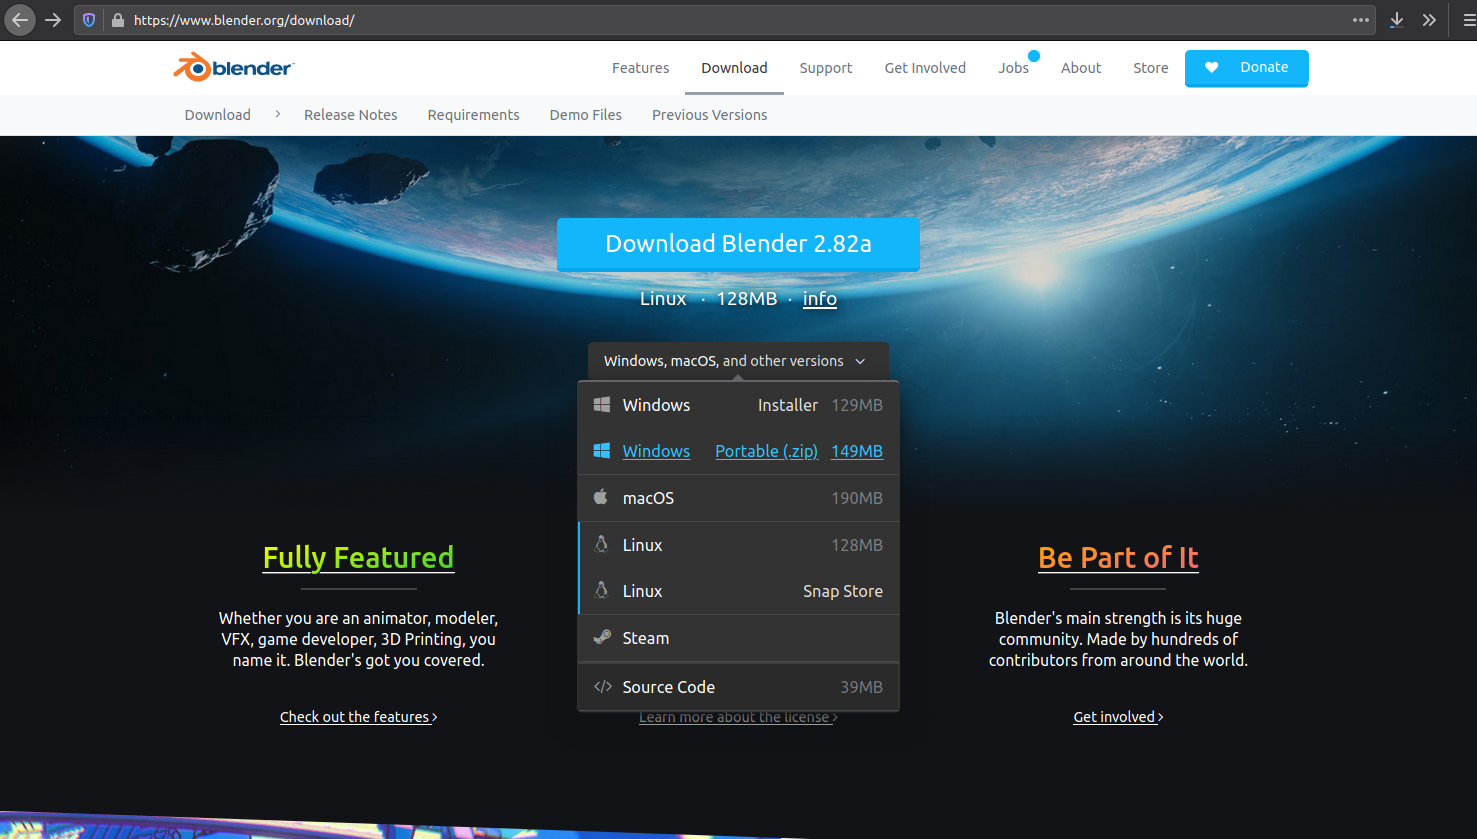
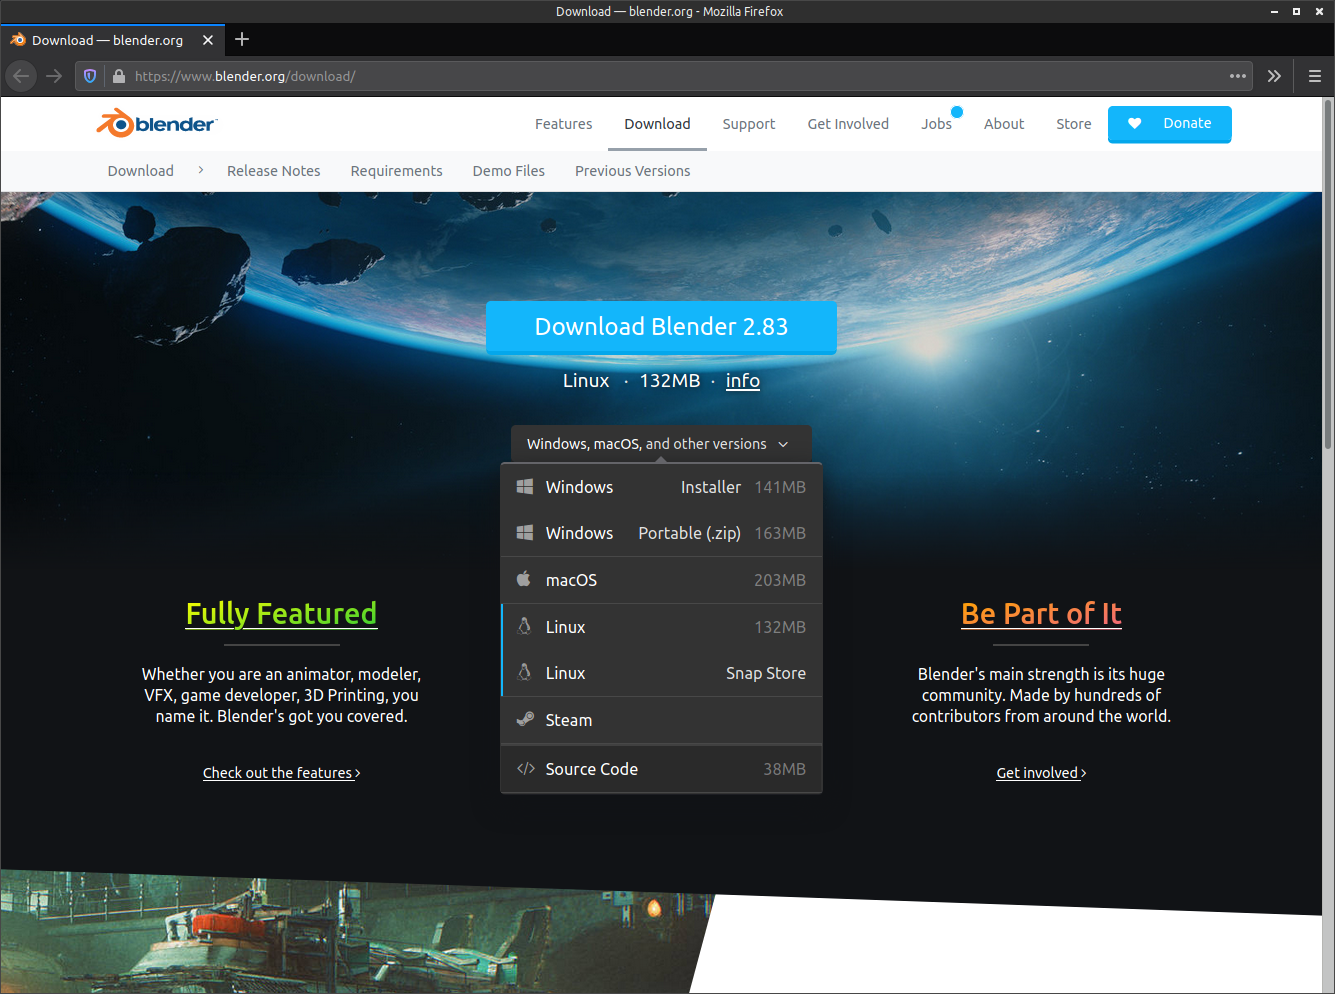
- wip

diff --git a/_posts/2020-06-06-blender_creative_coding--1.1-_getting_started.md b/_posts/2020-06-06-blender_creative_coding--1.1-_getting_started.md
@@ -12,33 +12,48 @@ published: false
 </p>
 -->
 
-This series of tutorial posts introduce Blender as tool for creative coding. [Blender](https://www.blender.org/) is open-source software for 3D modelling and animation, that can also handle compositing, video editing, and 2D animation.
+In this series of tutorials, I'll introduce Blender as a tool for creative coding. [Blender](https://www.blender.org/) is open-source software for 3D modelling and animation that can also handle compositing, video editing, and 2D animation. Artists and animators operate Blender using a graphic user interface (Figure 1-1), but it also features a Python API that can do everything the GUI can and more. That means you can use Python code draw, position, animate, and manipulate 3D objects.
 
-But, Blender also features a Python API that you can use
+<figure>
+  <img src="{{ site.url }}/img/bcc01/getting-started-blender.png" class="fullwidth" />
+  <figcaption>Figure 1-1: The Blender modelling interface</figcaption>
+</figure>
 
-[Complete list of Processing.py lessons]({{ site.baseurl }}/#processing-reverse)
+I began experimenting with Blender scripting largely via *Processing Python Mode*. I'm interested in creative coding using Python. Processing Python Mode is a fantastic entry point into the world of creative coding, Python, and programming in general. I think it's so great that I wrote a [whole course]({{ site.baseurl }}/#processing-reverse) on it. You won't outgrow Processing, but you might have the urge to delve into some more advanced 3D stuff---particle systems, rigid-body/fluid/cloth dynamics, metaballs, volumetrics, and so forth. With Blender scripting, you get access to all of that and a powerful render engine to output your creations in high-resolution image and video formats.
+
+I'll be adding lessons whenever I have time. This series of tutorials is serves as a journal for myself, and a guide for others. I've always longed to get 'properly' into Blender, and now I've found a reason to do so.
+
+### What You Should Know Already
+
+I'll provide a brief overview of the Python language in lesson 2. If you're familiar with some other programming language, you should be fine. If you have no programming experience, it's best to learn some Python first (using [Processing Python mode]({{ site.baseurl }}/#processing-reverse) or some other Python environment).
+
+Some Blender knowledge is useful, but not essential.
 
 # Getting Started
 
-In this section, I'll step you through installing Blender, accessing the scripting interface, and running your first line of code. You should already possess some Python knowledge; but if you're familiar with some other programming language, you can fill in on Python as you progress through the content. Some Blender knowledge is useful, but not essential.
+In this section, I'll step you through installing Blender, accessing the scripting interface, and running your first line of code. At the time of writing, Blender is on release 2.83.
 
-You can download Blender from the Blender website: [https://www.blender.org/download/](https://www.blender.org/download/)
+Download Blender from the Blender website at [https://www.blender.org/download/](https://www.blender.org/download/).
 
-On the Download page, click the *other versions* option. I'm using the *Portable* version. I prefer not to use installers if I can; this way, you know exactly where the Blender application is stored, which is useful for the command line step (coming up shortly). For Windows, download the *Portable(.zip)* file. For Linux, download the non-Snap-Store version (with the file size alongside it). For macOS, there's just one option, which is the one you want.
+On the Download page, click the *other versions* option (Figure 1-2). I'm using the *Portable* version. I prefer not to use installers if I can; this way, you know exactly where the Blender application is stored, which is useful for the command line step (coming up shortly). For Windows, download the *Portable(.zip)* file. For Linux, download the *non*-Snap-Store version. For macOS, there's just one option, which is the one you want.
 
-![](img/bcc01/getting-started-download-blender.png)  
-*Figure 1-1: Blender download page*
+<figure>
+  <img src="{{ site.url }}/img/bcc01/getting-started-download-blender.png" class="fullwidth" />
+  <figcaption>Figure 1-2: Blender download page</figcaption>
+</figure>
 
-Once the download is complete, extract this on your desktop, in your documents folder, or wherever you prefer. The extracted folder contains the application files -- everything you need to run Blender. On macOS, you choose where you store the application by dragging it to a location.
+Once the download is complete, extract this wherever you like---on your desktop, in your documents folder, or wherever you prefer. The extracted folder contains the application files---everything you need to run Blender. On macOS, you choose where you store the application by dragging it to that location.
 
 ## Opening Blender via the Command Line
 
 Open your terminal. On Windows, it's called the *Command Prompt*; on macOS, it's called *Terminal*; Linux folk, you know about your terminal already ;)
 
-Type `cd` (followed by a space), then drag the extracted folder into the terminal window. This will look a little different for each system, but the principle is the same. If you used the Blender installer (as opposed to the portable version), you'd need to locate the installed files on your system. On macOS you'll have to right-click on the Blender application, select *Show Package Contents*, navigate to *Contents* > *MacOS*, and drag this into the terminal.
+In a new terminal window, type `cd` (followed by a space), then drag the extracted folder into the terminal window. This will look a little different for each system, but the principle is the same. If you used the Blender installer (as opposed to the portable version), you'd need to locate the installed files on your system. On macOS you'll have to right-click on the Blender application, select *Show Package Contents*, navigate to *Contents* > *MacOS*, and drag this into the terminal.
 
-![](img/bcc01/getting-started-terminal-drag.png)  
-*Figure 1-2: Type `cd` and drag the folder into the terminal*
+<figure>
+  <img src="{{ site.url }}/img/bcc01/getting-started-terminal-drag.png" class="fullwidth" />
+  <figcaption>Figure 1-3: Type <code>cd</code> and drag the folder into the terminal</figcaption>
+</figure>
 
 This will write in the path. Hit enter to change to the Blender directory. The prompt (text to the left of the cursor) will indicate that you're in the right place. Again, this will look a bit different on your system.
 
@@ -68,8 +83,12 @@ Just above where you entered `print('Hello, World!')`, there's a link to access 
 
 Excellent! You've got a working Python script. It's time to move onto manipulating objects with code.
 
-*next lesson coming soon*
 
+
+<p style="text-align:right" markdown="1">
+<em>next lesson coming soon</em><br />
 <!--
-Sound exciting? You can [get started now](01-blender_creative_coding--1.2-_...)!
+<a href="{{ page.next.url }}">{{ page.next.title | split:'–'| last }}</a> &raquo;<br />
 -->
+[Complete list of Blender Creative Coding lessons]({{ site.baseurl }}/#blender-reverse)
+</p>
